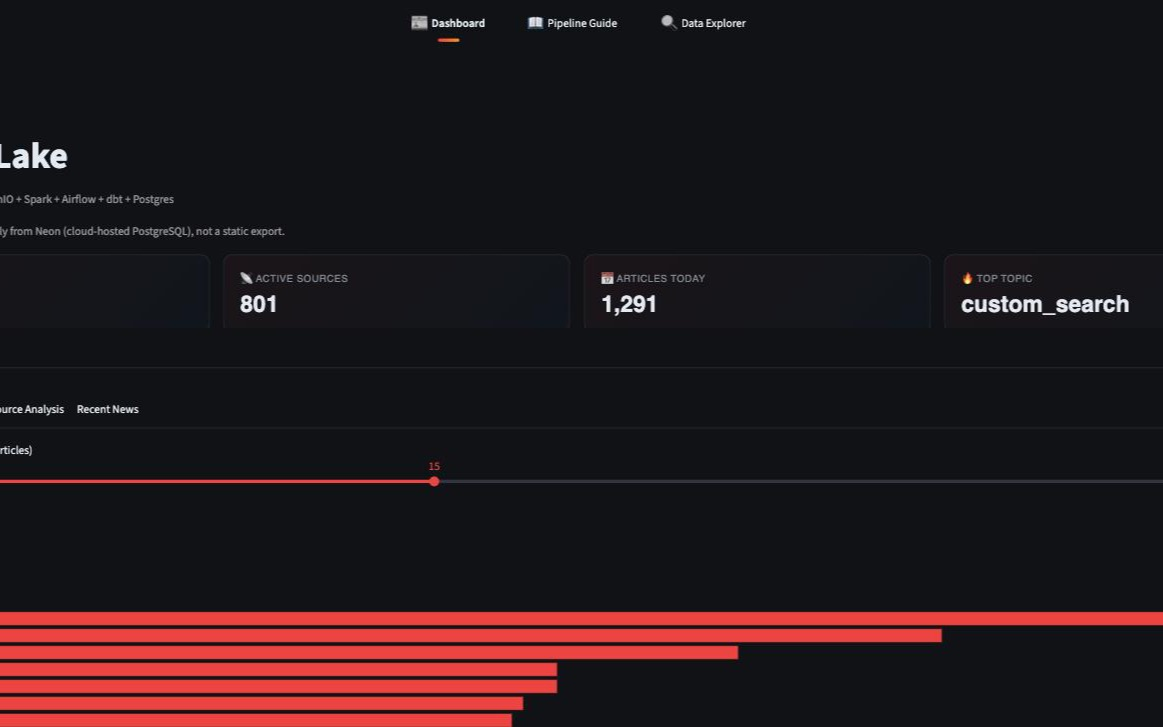
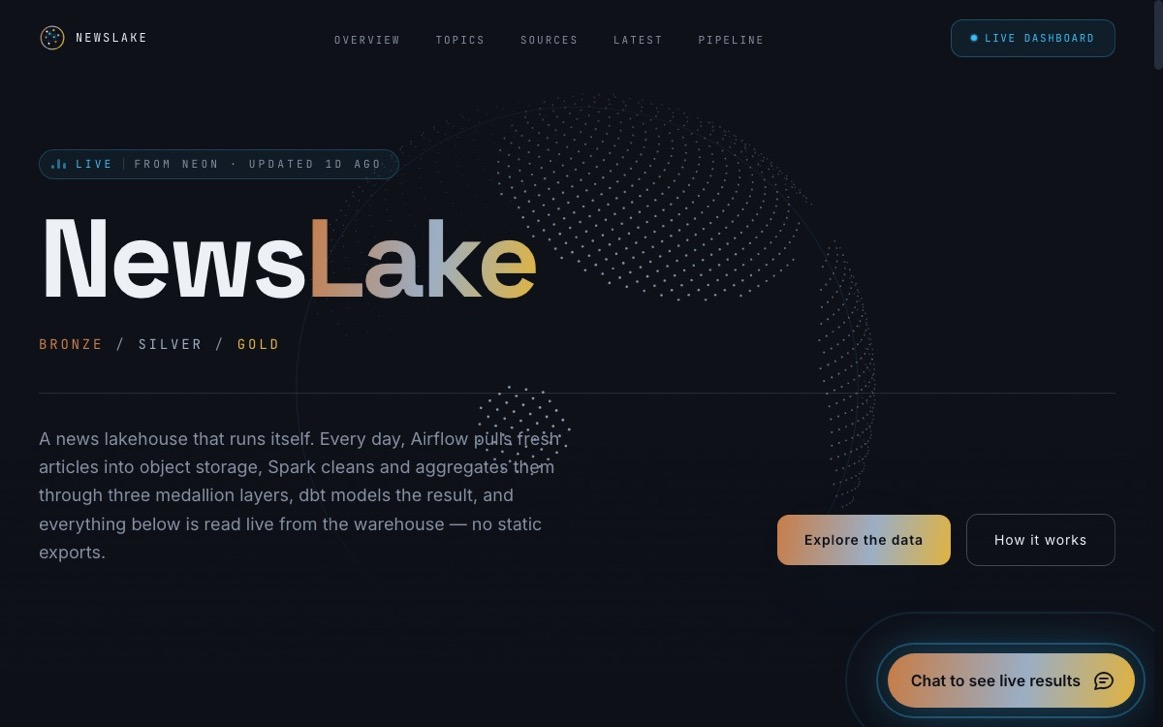
update

diff --git a/utils/story.js b/utils/story.js
@@ -66,8 +66,8 @@ export const ACTS = [
     system: {
       eyebrow: 'The system',
       lines: ['So I built', 'the pipes.'],
-      body: 'NewsLake: news ingested into MinIO, transformed through Spark bronze/silver/gold layers, orchestrated by Airflow, modeled with dbt, and served live through a Streamlit dashboard reading straight from Neon Postgres. The layer nobody applauds and every product quietly depends on.',
-      meta: ['Airflow', 'Apache Spark', 'dbt', 'MinIO', 'Neon Postgres', 'Streamlit'],
+      body: 'NewsLake: news ingested into MinIO, transformed through Spark bronze/silver/gold layers, orchestrated by Airflow, modeled with dbt, and served live through a Next.js site with an AI chatbot, plus a companion Streamlit dashboard, both reading straight from Neon Postgres. The layer nobody applauds and every product quietly depends on.',
+      meta: ['Airflow', 'Apache Spark', 'dbt', 'MinIO', 'Neon Postgres', 'Next.js'],
       footnote: 'Built in the open, end to end.',
     },
   },

diff --git a/utils/data.js b/utils/data.js
@@ -200,9 +200,9 @@ export const PROJECTS = [
     subtitle: "Containerized news data lakehouse",
     tag: "Data",
     description:
-      "News ingested into MinIO, transformed through Spark's bronze/silver/gold layers, orchestrated by Airflow, modeled with dbt, and served live through a Streamlit dashboard reading straight from Neon Postgres.",
-    tech: ["Airflow", "Apache Spark", "dbt", "Neon Postgres", "Streamlit"],
+      "News ingested into MinIO, transformed through Spark's bronze/silver/gold layers, orchestrated by Airflow, modeled with dbt, and served live through a Next.js site with an AI chatbot (plus a companion Streamlit dashboard) reading straight from Neon Postgres.",
+    tech: ["Airflow", "Apache Spark", "dbt", "Neon Postgres", "Next.js"],
     image: "/assets/newslake.jpg",
-    link: "https://github.com/affan4321/NewsLake",
+    link: "https://newslakeoriginal.vercel.app/",
   },
 ]
